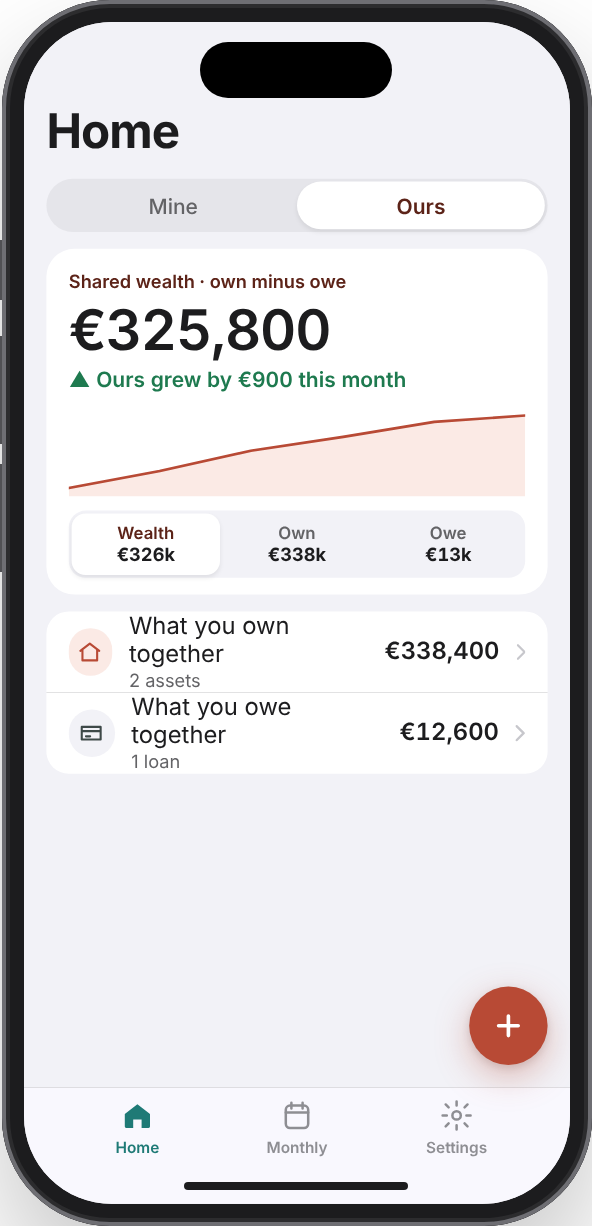
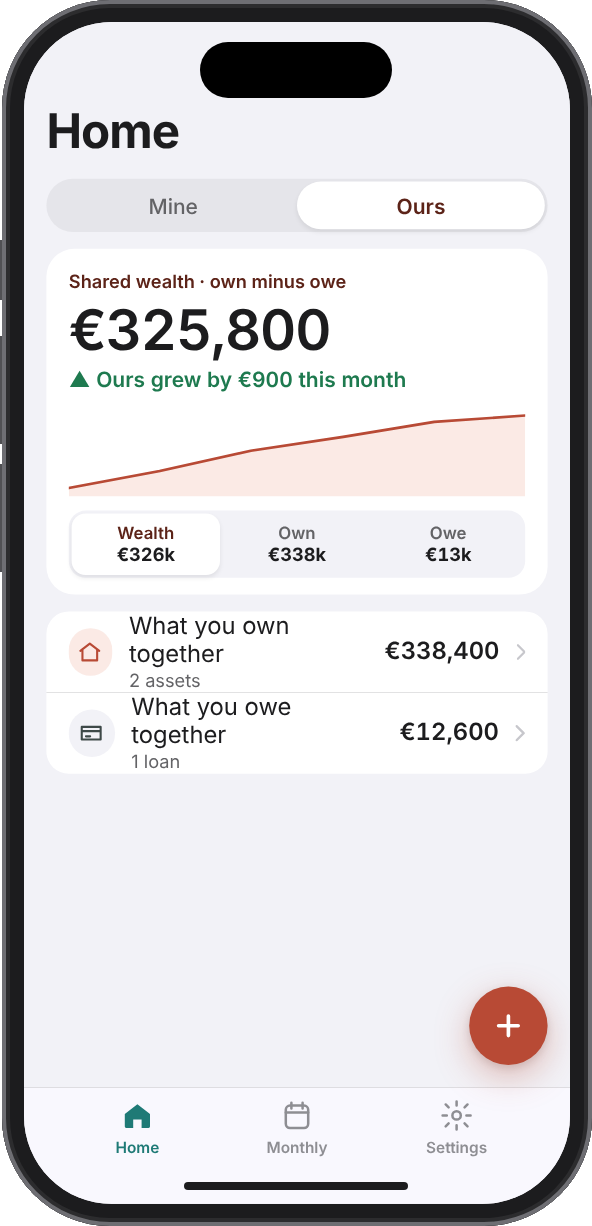
Blog: float phone screenshots beside the text
Claude-Session: https://claude.ai/code/session_01BUXyniyqLGYpDWWLCT2hQV

Changed region(s): [[0.0, 0.4649, 0.152, 1.0], [0.8514, 0.9299, 1.0, 1.0], [0.0, 0.155, 0.0304, 0.186]]

diff --git a/blog/manage-money-as-a-couple/index.html b/blog/manage-money-as-a-couple/index.html
@@ -32,7 +32,7 @@
       "datePublished": "2026-10-27",
       "dateModified": "2026-10-27",
       "inLanguage": "en",
-      "wordCount": 832,
+      "wordCount": 831,
       "mainEntityOfPage": "https://zweikarta.com/blog/manage-money-as-a-couple/",
       "author": {
         "@id": "https://zweikarta.com/#org"
@@ -125,8 +125,8 @@
 <p><strong>Check in once a month.</strong> Pick a fixed day, like the first of the month, and keep it short, around fifteen minutes. Three questions are enough: what went well, what changed, and is anything big coming up? Some couples call this a money date. A fixed day means nobody has to be the one who says &quot;we need to talk about money&quot;.</p>
 <p><strong>Keep privacy, not secrets.</strong> Having money of your own is healthy. Hiding a debt is not. The difference is that privacy is something you both agreed on.</p>
 <h2 id="where-geldspace-fits-in">Where GeldSpace fits in</h2>
+<figure class="phone"><img src="/assets/blog/manage-money-as-a-couple/ours.png" width="592" height="1226" alt="The Ours view in GeldSpace: shared wealth, what you own and what you owe together." loading="lazy" decoding="async"><figcaption>Ours: only what you both chose to share.</figcaption></figure>
 <p>We&#x27;re Zweikarta, a small app studio in Berlin, and we built GeldSpace for exactly this.</p>
-<figure class="phone"><img src="/assets/blog/manage-money-as-a-couple/ours.png" width="592" height="1226" alt="The Ours view in GeldSpace: shared wealth, what you own and what you owe together." loading="lazy" decoding="async"><figcaption>Ours shows only what you both chose to share.</figcaption></figure>
 <p>Everything you add lives in <strong>Mine</strong>, which only you can see, or in <strong>Ours</strong>, which you share. Your partner never sees your Mine. Once a month GeldSpace reminds you both, last month&#x27;s numbers are already filled in, and the check-in takes a couple of minutes. When you&#x27;ve both finished, you see how Ours changed and get three questions for a short money date. There are no bank logins: you type or confirm every number yourself.</p>
 <p>It works on your own too, and it&#x27;s coming soon to iPhone and Android.</p>
   </div>

diff --git a/assets/studio.css b/assets/studio.css
@@ -268,12 +268,14 @@ footer.foot a { color: var(--on-night-muted); }
 .post-body li { margin-bottom: 8px; }
 .post-body a { color: var(--mine); text-underline-offset: 3px; }
 .post-body figure { margin: 36px 0; }
-.post-body figure.phone { display: grid; grid-template-columns: minmax(0, 220px) minmax(0, 1fr); gap: 28px; align-items: center; background: var(--surface); border: 1px solid var(--line); border-radius: var(--r-lg); padding: 28px; }
+.post-body h2 { clear: both; }
+.post-body figure.phone { float: right; width: 240px; margin: 6px 0 20px 36px; text-align: center; }
+.post-body figure.phone figcaption { margin-top: 12px; font-size: 14px; }
 .post-body figure img { display: block; width: 100%; height: auto; }
 .post-body figure.wide img { border-radius: var(--r-md); }
 .post-body figcaption { color: var(--muted); font-size: 15px; line-height: 1.5; }
 .post-body figure.wide figcaption { margin-top: 10px; }
-.post-cta { margin-top: 56px; border-radius: var(--r-lg); padding: 36px; color: #fff;
+.post-cta { clear: both; margin-top: 56px; border-radius: var(--r-lg); padding: 36px; color: #fff;
   background: radial-gradient(120% 120% at 100% 100%, #B84A35 0%, rgba(184,74,53,0) 55%), linear-gradient(135deg, #1F7A76, #134B48); }
 .post-cta .kicker { color: #CFE6E4; margin-bottom: 10px; }
 .post-cta h2 { font-size: 2.2rem; }
@@ -283,7 +285,6 @@ footer.foot a { color: var(--on-night-muted); }
 @media (prefers-color-scheme: dark) { :root:not([data-theme="light"]) .post-body a { color: #6FC3BD; } }
 :root[data-theme="dark"] .post-body a { color: #6FC3BD; }
 @media (max-width: 600px) {
-  .post-body figure.phone { grid-template-columns: 1fr; padding: 24px; justify-items: center; text-align: center; }
-  .post-body figure.phone img { max-width: 220px; }
+  .post-body figure.phone { float: none; width: auto; max-width: 240px; margin: 28px auto; }
   .post-cta { padding: 28px 24px; }
 }

diff --git a/content/blog/manage-money-as-a-couple.md b/content/blog/manage-money-as-a-couple.md
@@ -54,9 +54,9 @@ There's no right answer here. What matters is that you both chose it, and that y
 
 ## Where GeldSpace fits in
 
-We're Zweikarta, a small app studio in Berlin, and we built GeldSpace for exactly this.
+![The Ours view in GeldSpace: shared wealth, what you own and what you owe together.](ours.png "Ours: only what you both chose to share.")
 
-![The Ours view in GeldSpace: shared wealth, what you own and what you owe together.](ours.png "Ours shows only what you both chose to share.")
+We're Zweikarta, a small app studio in Berlin, and we built GeldSpace for exactly this.
 
 Everything you add lives in **Mine**, which only you can see, or in **Ours**, which you share. Your partner never sees your Mine. Once a month GeldSpace reminds you both, last month's numbers are already filled in, and the check-in takes a couple of minutes. When you've both finished, you see how Ours changed and get three questions for a short money date. There are no bank logins: you type or confirm every number yourself.
 
